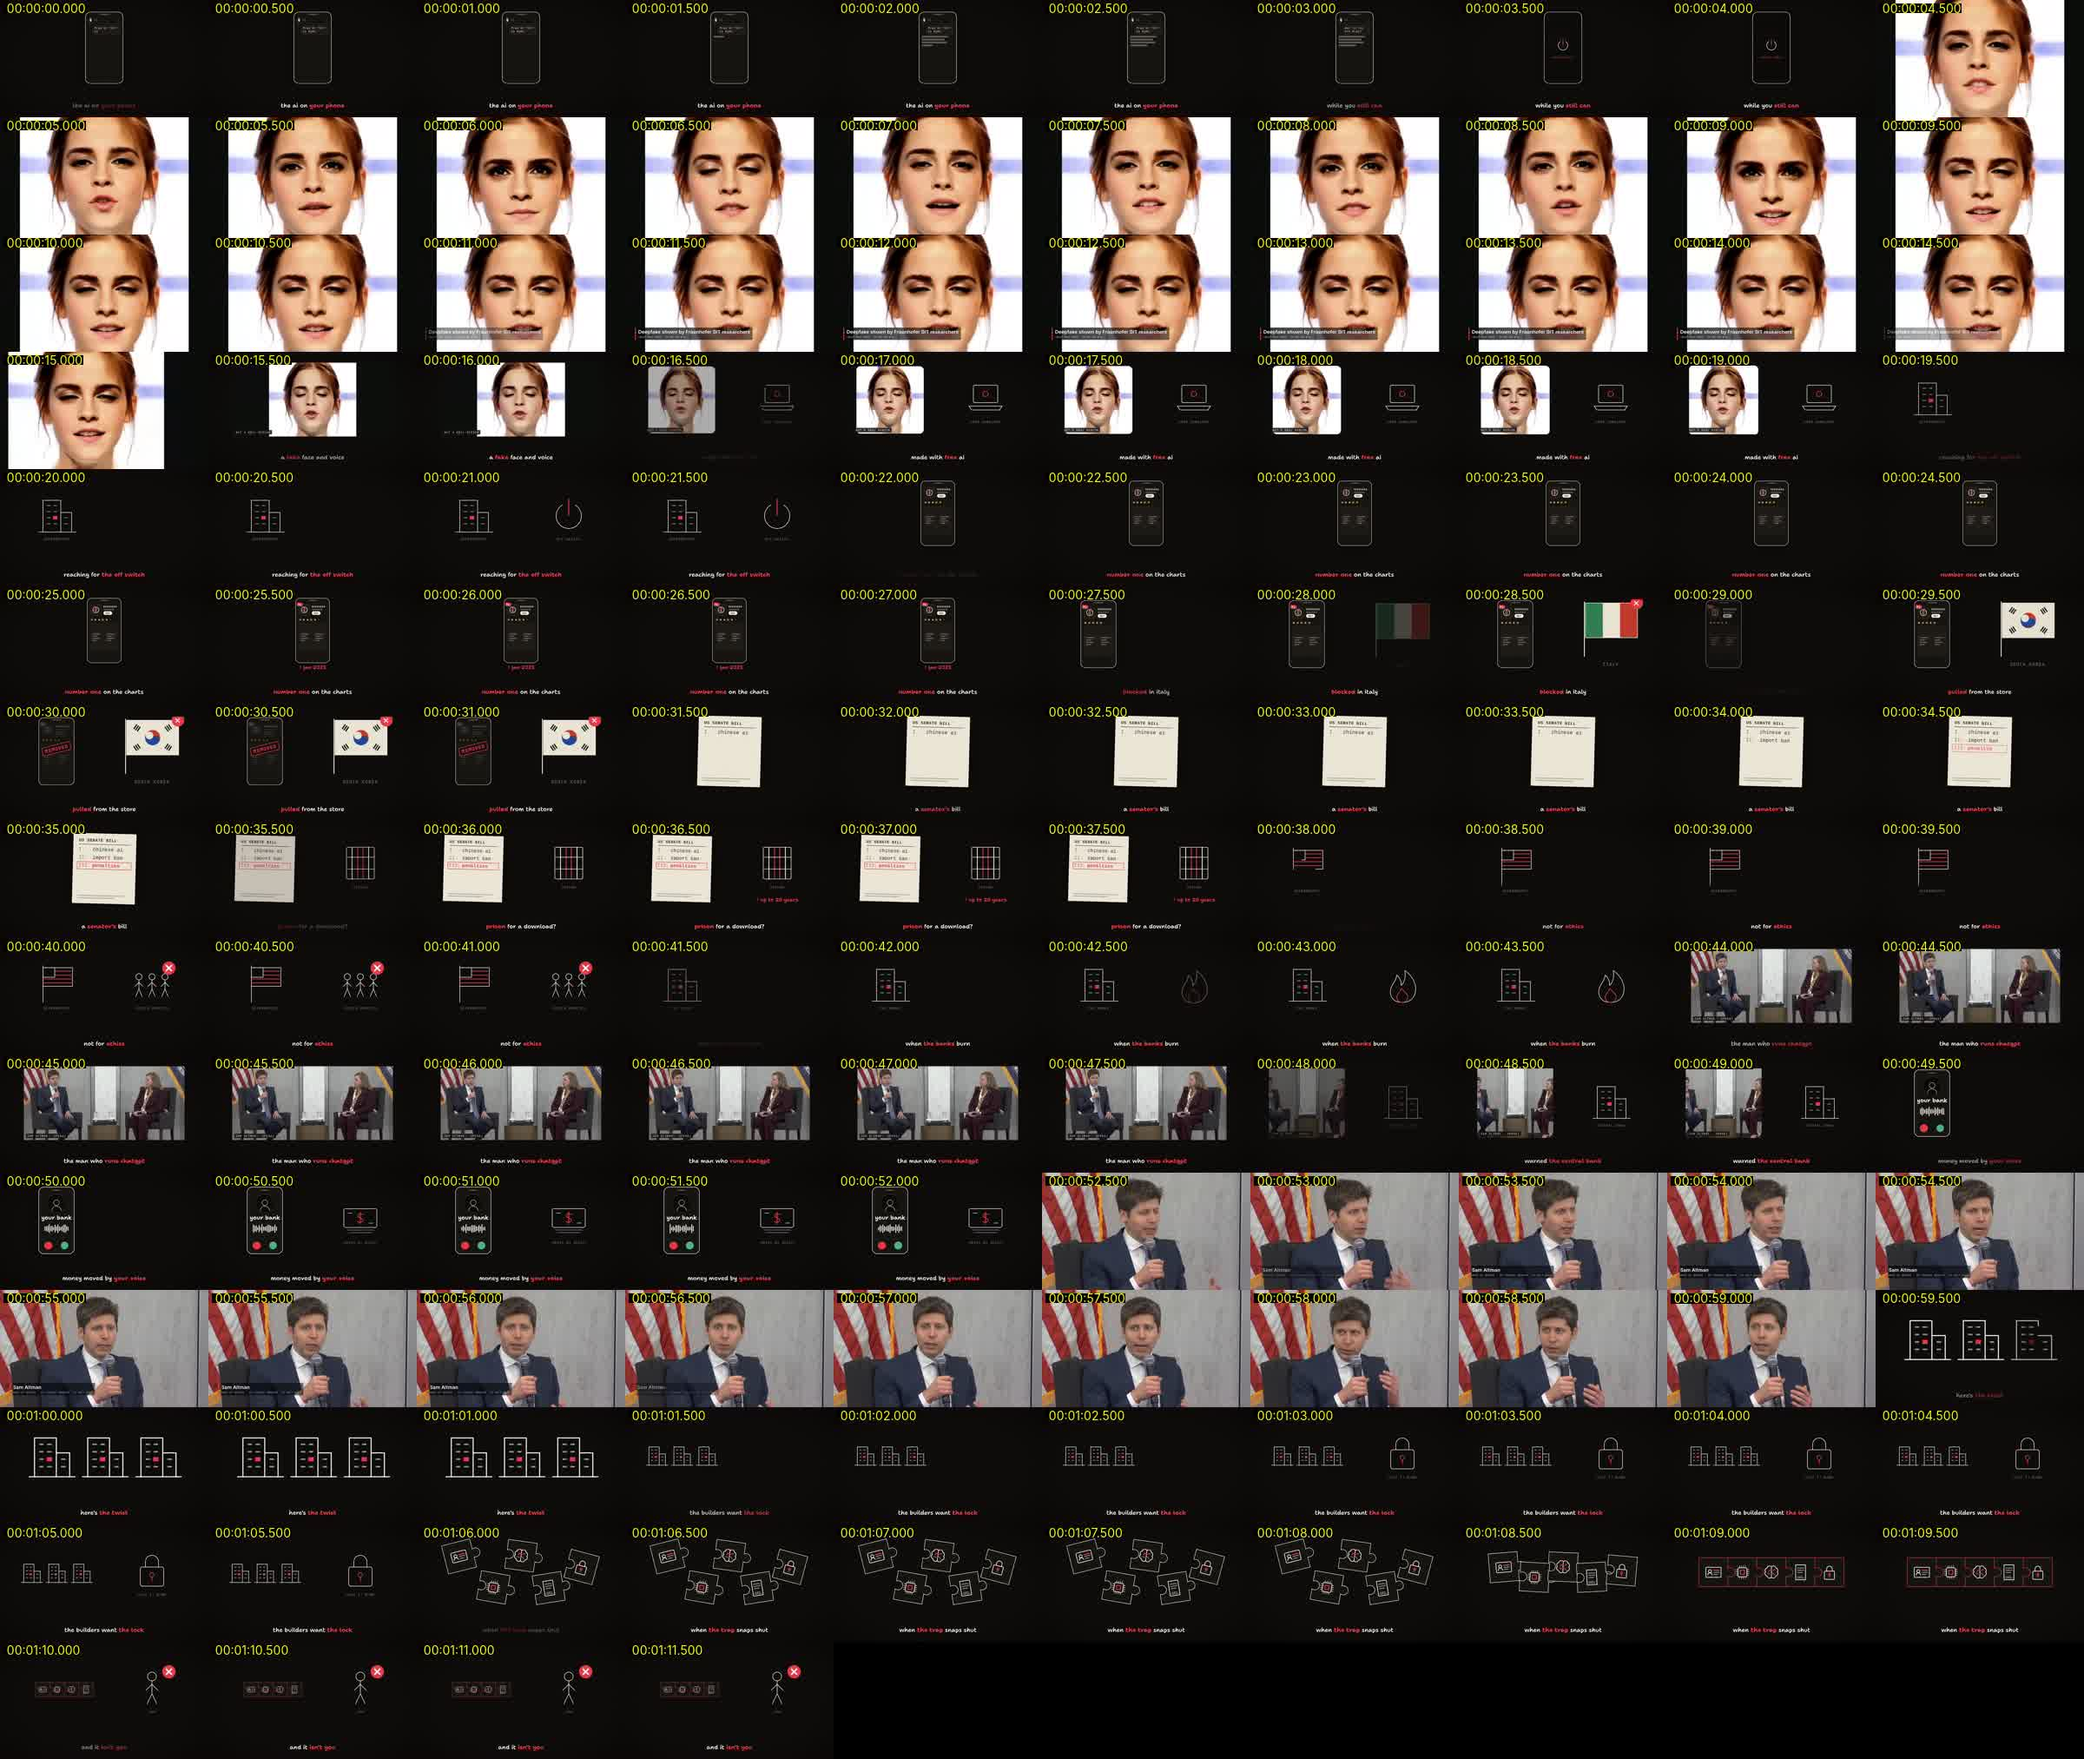
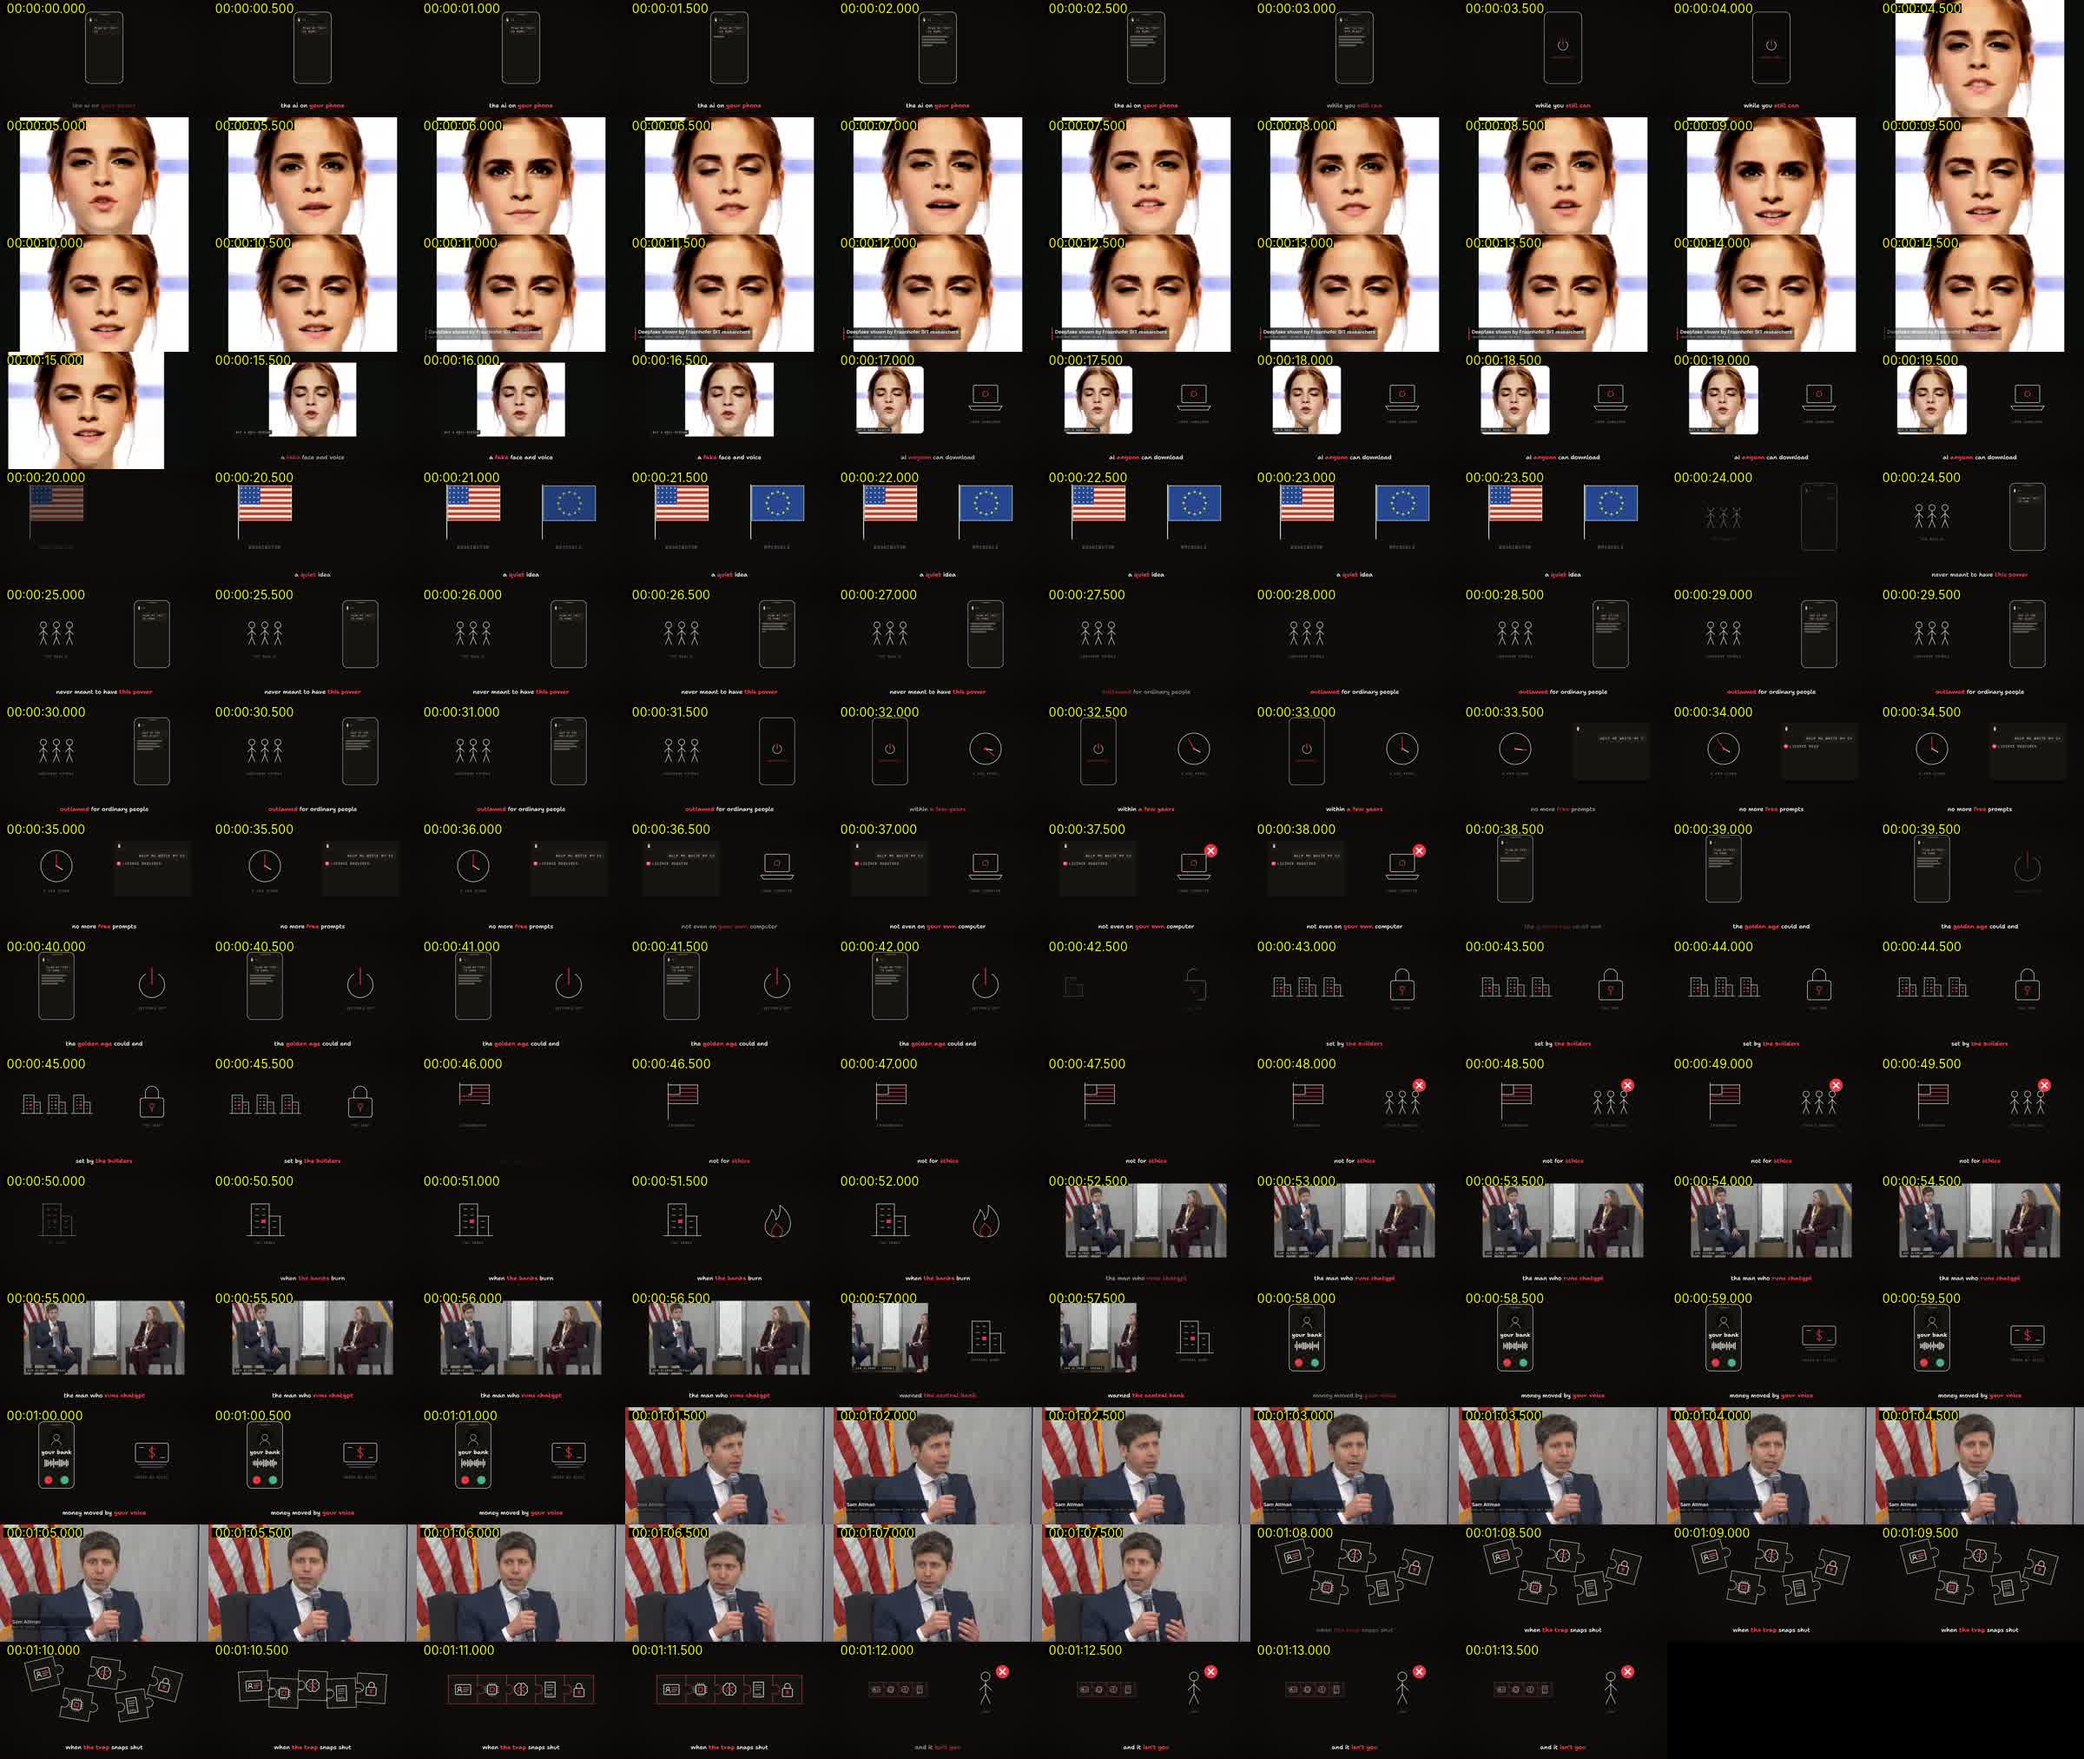
ai-ban sample v5 rendered (watch.py 0 FAIL), sent as All-in_ai_ban_sample_v5.mp4; handover
Claude-Session: https://claude.ai/code/session_01S5iaG25Nnj58d8uMFCEvnk

diff --git a/HANDOVER.md b/HANDOVER.md
@@ -1,4 +1,4 @@
-# HANDOVER · All-in · 2026-10-11 late night · LIVE = "THE COMING AI BAN" (ai-ban) · 1-min sample v4 re-sent · NEXT: owner OK → full film
+# HANDOVER · All-in · 2026-10-11 late night · LIVE = "THE COMING AI BAN" (ai-ban) · 1-min sample v5 (owner's SCENE 01 as written) SENT · NEXT: owner OK → full film
 Older history: `HANDOVER_archive.md` (read only if needed). Token-lean: S is on Pro (keep a session under ~120k tokens;
 grep and small scripts, never print whole transcripts or logs). Never read SCRATCH HOLY or other source projects.
 
@@ -10,6 +10,11 @@ AI black markets is DEAD: never build, send or polish it again. "The original sc
 - Re-sent `videos/ai-ban/out/All-in_ai_ban_sample_1min_v4.mp4` (built from the owner's opening lines).
 - NEXT: when the owner OKs the sample (or says go), build the full film (8 min+) from `owner_script.txt` scenes 01-17
   in the owner's own voice and punch, claims made true (facts as facts, predictions as "could"). See the sections below.
+- Owner then: "sample now! im very upset" (LEARNINGS 72). Built and SENT sample v5: `videos/ai-ban/out/ai-ban_v5.mp4`
+  (full quality) → `All-in_ai_ban_sample_v5.mp4` (11 MB, crf 23). ORDER h01 c01 h02 h03 h04 h05 h05b c02 h07, 157 words,
+  1:14. The owner's SCENE 01 line by line (made true: "could", "an idea is spreading"; SOURCES 21a-c) + SCENE 04's
+  "banking system is on fire" + Altman Fed clip + open loop. DeepSeek/Hawley beats dropped (save them for the film).
+  New: `Flag` usa / eu. Lints, voice_check, watch.py all 0 FAIL. Stills `qa/cuts_v5_new.jpg`, `qa/cuts_v5_fix.jpg`.
 - Session start rule: `git fetch origin`, find the newest commit on every `claude/*` branch, merge it, read its HANDOVER.
 
 ## EARLIER (2026-10-11 night): ai-ban 1-min sample v4 · after the owner rejected the 2-min one
